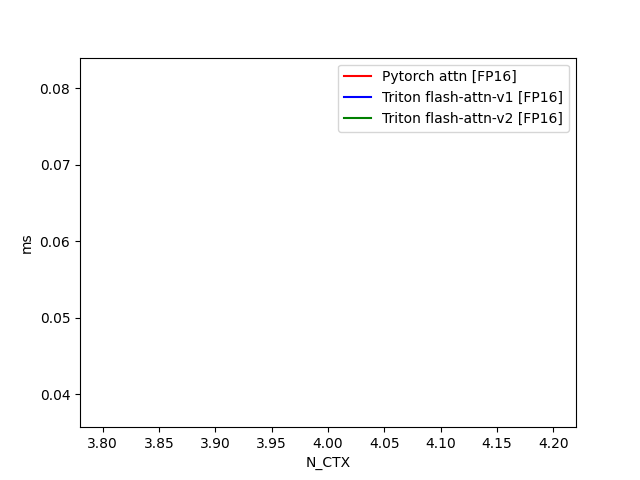
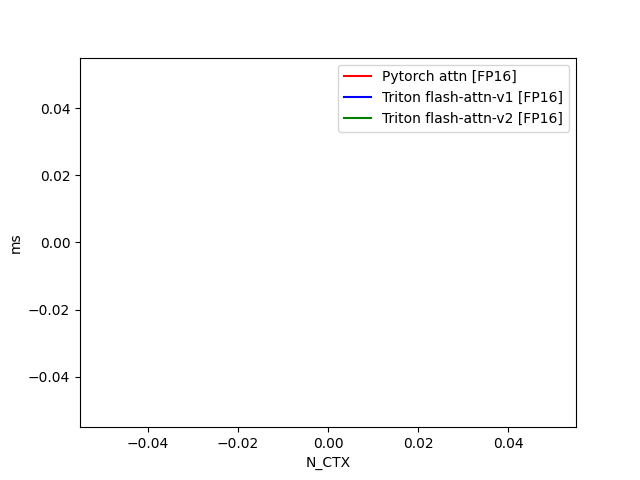
fix triton flash attn v2

diff --git a/benchmark/results.html b/benchmark/results.html
@@ -1,3 +1,2 @@
 <html><body>
-<image src="flash-attention-batch4-head32-d64-causal=False.png"/>
 </body></html>

diff --git a/csrc/triton/flash_attn_v2.py b/csrc/triton/flash_attn_v2.py
@@ -33,29 +33,28 @@ def keep(conf):
 @triton.autotune(list(filter(keep, configs)), key=["N_CTX", "HEAD_DIM"])
 @triton.jit
 def flash_attn_kernel_v2(
-    Q,
-    K,
-    V,
+    Q_ptr,
+    K_ptr,
+    V_ptr,
     sm_scale,
-    M,
-    Out,
-    stride_qz,
+    O_ptr,
+    stride_qb,
     stride_qh,
     stride_qm,
     stride_qk,
-    stride_kz,
+    stride_kb,
     stride_kh,
     stride_kn,
     stride_kk,
-    stride_vz,
+    stride_vb,
     stride_vh,
     stride_vk,
     stride_vn,
-    stride_oz,
+    stride_ob,
     stride_oh,
     stride_om,
     stride_on,
-    Z,  # Batch size
+    B,  # Batch size
     H,  # Head size
     N_CTX,  # N size
     HEAD_DIM: tl.constexpr,
@@ -65,20 +64,20 @@ def flash_attn_kernel_v2(
 ):
     tl.static_assert(BLOCK_N <= HEAD_DIM)
 
-    start_m = tl.program_id(0)
-    off_hz = tl.program_id(1)
+    start_m = tl.program_id(0)  # 1 / tl.div(N_CTX, BLOCK_M)
+    off_hz = tl.program_id(1)  # 1 / batch_size * head_size tiles
 
-    off_z = off_hz // H  # B * H
+    # programs is B * H
+    off_z = off_hz // H
     off_h = off_hz % H
 
-    q_offset = off_z.to(tl.int64) * stride_qz + off_h.to(tl.int64) * stride_qh
-    k_offset = off_z.to(tl.int64) * stride_kz + off_h.to(tl.int64) * stride_kh
-    v_offset = off_z.to(tl.int64) * stride_vz + off_h.to(tl.int64) * stride_vh
-    o_offset = off_z.to(tl.int64) * stride_oz + off_h.to(tl.int64) * stride_oh
+    q_offset = off_z.to(tl.int64) * stride_qb + off_h.to(tl.int64) * stride_qh
+    k_offset = off_z.to(tl.int64) * stride_kb + off_h.to(tl.int64) * stride_kh
+    v_offset = off_z.to(tl.int64) * stride_vb + off_h.to(tl.int64) * stride_vh
+    o_offset = off_z.to(tl.int64) * stride_ob + off_h.to(tl.int64) * stride_oh
 
-    # block pointers
     Q_block_ptr = tl.make_block_ptr(
-        base=Q + q_offset,
+        base=Q_ptr + q_offset,
         shape=(N_CTX, HEAD_DIM),
         strides=(stride_qm, stride_qk),
         offsets=(start_m * BLOCK_M, 0),
@@ -86,17 +85,14 @@ def flash_attn_kernel_v2(
         order=(1, 0),
     )
 
-    V_block_ptr = tl.make_block_ptr(
-        base=V + v_offset,
-        shape=(N_CTX, HEAD_DIM),
-        strides=(stride_vk, stride_vn),
-        offsets=(0, 0),
-        block_shape=(BLOCK_N, HEAD_DIM),
-        order=(1, 0),
-    )
-
+    # K_block_ptr: 指向 K 矩阵。关键点：这里故意将 K 声明为转置形状 (D, N)。
+    # 这样加载进 SRAM 的数据块天然就是转置好的，做 dot(Q, K) 时不需要再 tl.trans。
+    # Note: K tensor has shape (N_CTX, HEAD_DIM) in last two dims, but we view it as (HEAD_DIM, N_CTX)
+    # strides: (stride_kk, stride_kn) = (1, HEAD_DIM) means:
+    #   - dimension 0 (HEAD_DIM): stride 1 (innermost, consecutive elements)
+    #   - dimension 1 (N_CTX): stride HEAD_DIM (next row)
     K_block_ptr = tl.make_block_ptr(
-        base=K + k_offset,
+        base=K_ptr + k_offset,
         shape=(HEAD_DIM, N_CTX),
         strides=(stride_kk, stride_kn),
         offsets=(0, 0),
@@ -104,8 +100,17 @@ def flash_attn_kernel_v2(
         order=(0, 1),
     )
 
+    V_block_ptr = tl.make_block_ptr(
+        base=V_ptr + v_offset,
+        shape=(N_CTX, HEAD_DIM),
+        strides=(stride_vn, stride_vk),
+        offsets=(0, 0),
+        block_shape=(BLOCK_N, HEAD_DIM),
+        order=(1, 0),
+    )
+
     O_block_ptr = tl.make_block_ptr(
-        base=Out + o_offset,
+        base=O_ptr + o_offset,
         shape=(N_CTX, HEAD_DIM),
         strides=(stride_om, stride_on),
         offsets=(start_m * BLOCK_M, 0),
@@ -113,37 +118,62 @@ def flash_attn_kernel_v2(
         order=(1, 0),
     )
 
-    # initialize offsets
     offs_m = start_m * BLOCK_M + tl.arange(0, BLOCK_M)
     offs_n = tl.arange(0, BLOCK_N)
 
-    # initialize pointer to m and l
+    # initialize max, l and acc
     m_i = tl.zeros([BLOCK_M], dtype=tl.float32) - float("inf")
-    l_i = tl.zeros([BLOCK_M], dtype=tl.float32) + 1.0
-    acc = tl.zeros([BLOCK_M, HEAD_DIM], dtype=tl.float32)
+    l_i = tl.zeros([BLOCK_M], dtype=tl.float32)
+    acc = tl.zeros([BLOCK_M, HEAD_DIM], dtype=tl.float32)  # result
 
     # load scales
     qk_scale = sm_scale
     qk_scale *= 1.44269504  # 1/log(2)
 
-    # load q: it will stay in SRAM throughout
     q = tl.load(Q_block_ptr)
 
-    # range of values handled by this stage
     if IS_CAUSAL:
-        lo, hi = 0, start_m * BLOCK_M
+        # Causal Attention (IS_CAUSAL=True):
+        # Q[i] Only for K[0:i]
+        #      K[0]  K[1]  K[2]  K[3]  K[4]
+        # Q[0]  ✗     ✗     ✗     ✗     ✗    ← hi = 0
+        # Q[1]  ✓     ✗     ✗     ✗     ✗    ← hi = BLOCK_M
+        # Q[2]  ✓     ✓     ✗     ✗     ✗    ← hi = 2*BLOCK_M
+        # Q[3]  ✓     ✓     ✓     ✗     ✗    ← hi = 3*BLOCK_M
+        # Q[4]  ✓     ✓     ✓     ✓     ✗    ← hi = 4*BLOCK_M
+        # lo, hi = 0, start_m * BLOCK_M
+        lo, hi = 0, (start_m + 1) * BLOCK_M
     else:
+        # Full Attention (IS_CAUSAL=False):
+        # 每个 Q 块都遍历所有 KV 块
+        #      K[0]  K[1]  K[2]  K[3]  K[4]
+        # Q[0]  ✓     ✓     ✓     ✓     ✓
+        # Q[1]  ✓     ✓     ✓     ✓     ✓
+        # Q[2]  ✓     ✓     ✓     ✓     ✓
+        # Q[3]  ✓     ✓     ✓     ✓     ✓
+        # Q[4]  ✓     ✓     ✓     ✓     ✓
         lo, hi = 0, N_CTX
 
     K_block_ptr = tl.advance(K_block_ptr, (0, lo))
     V_block_ptr = tl.advance(V_block_ptr, (lo, 0))
 
-    # loop over k, v and update accumulator
     for start_n in range(lo, hi, BLOCK_N):
         start_n = tl.multiple_of(start_n, BLOCK_N)
+
         # -- compute qk ----
         k = tl.load(K_block_ptr)
         qk = tl.dot(q, k)
+
+        if IS_CAUSAL:
+            # 如果当前是最后一个块（对角线块），应用 Mask
+            # 注意：如果 BLOCK_N != BLOCK_M，这里的逻辑需要更通用，
+            # 但通常 FlashAttn 假设 BLOCK_N <= BLOCK_M 且对齐
+            if start_n >= start_m * BLOCK_M:
+                # 只有 start_n + offs_n <= start_m + offs_m 的位置有效
+                # 即 col <= row
+                _offs_n = start_n + offs_n
+                mask = offs_m[:, None] >= _offs_n[None, :]
+                qk = tl.where(mask, qk, float("-inf"))
 
         m_ij = tl.maximum(m_i, tl.max(qk, 1) * qk_scale)
         qk = qk * qk_scale - m_ij[:, None]
@@ -169,11 +199,8 @@ def flash_attn_kernel_v2(
         K_block_ptr = tl.advance(K_block_ptr, (0, BLOCK_N))
 
     # epilogue
-    m_i += tl.math.log2(l_i)
     acc = acc / l_i[:, None]
-    m_ptrs = M + off_hz * N_CTX + offs_m
-    tl.store(m_ptrs, m_i)
-    tl.store(O_block_ptr, acc.to(Out.type.element_ty))
+    tl.store(O_block_ptr, acc.to(O_ptr.type.element_ty))
 
 
 def flash_attn_v2(
@@ -207,29 +234,28 @@ def flash_attn_v2(
         k,
         v,
         sm_scale,
-        M,
-        o,  #
+        o,
         q.stride(0),
         q.stride(1),
         q.stride(2),
-        q.stride(3),  #
+        q.stride(3),
         k.stride(0),
         k.stride(1),
         k.stride(2),
-        k.stride(3),  #
+        k.stride(3),
         v.stride(0),
         v.stride(1),
         v.stride(2),
-        v.stride(3),  #
+        v.stride(3),
         o.stride(0),
         o.stride(1),
         o.stride(2),
-        o.stride(3),  #
-        q.shape[0],
-        q.shape[1],  #
-        N_CTX=q.shape[2],  #
-        HEAD_DIM=HEAD_DIM_K,  #
-        IS_CAUSAL=causal,  #
+        o.stride(3),
+        B=q.shape[0],
+        H=q.shape[1],
+        N_CTX=q.shape[2],
+        HEAD_DIM=HEAD_DIM_K,
+        IS_CAUSAL=causal,
     )
     return o
 

diff --git a/benchmark/flash_attn.py b/benchmark/flash_attn.py
@@ -12,7 +12,7 @@ def get_perf_config():
         configs.append(
             triton.testing.Benchmark(
                 x_names=["N_CTX"],
-                x_vals=[2**i for i in range(2, 3)],
+                x_vals=[2**i for i in range(5, 6)],
                 line_arg="provider",
                 line_vals=[
                     "pytorch attn",
